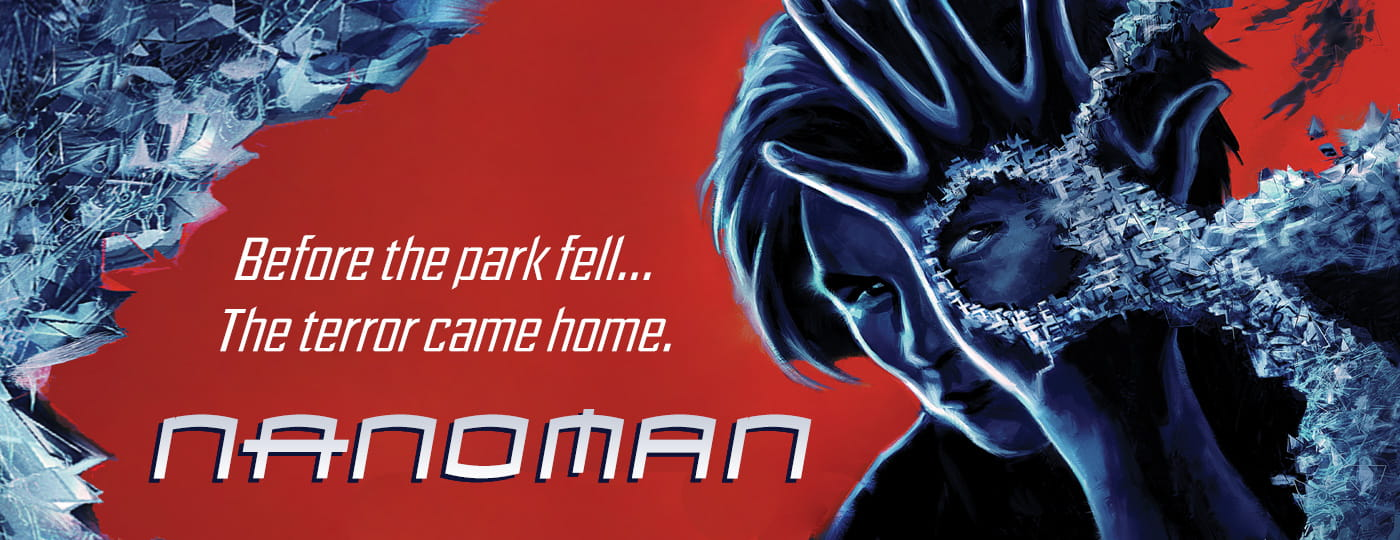
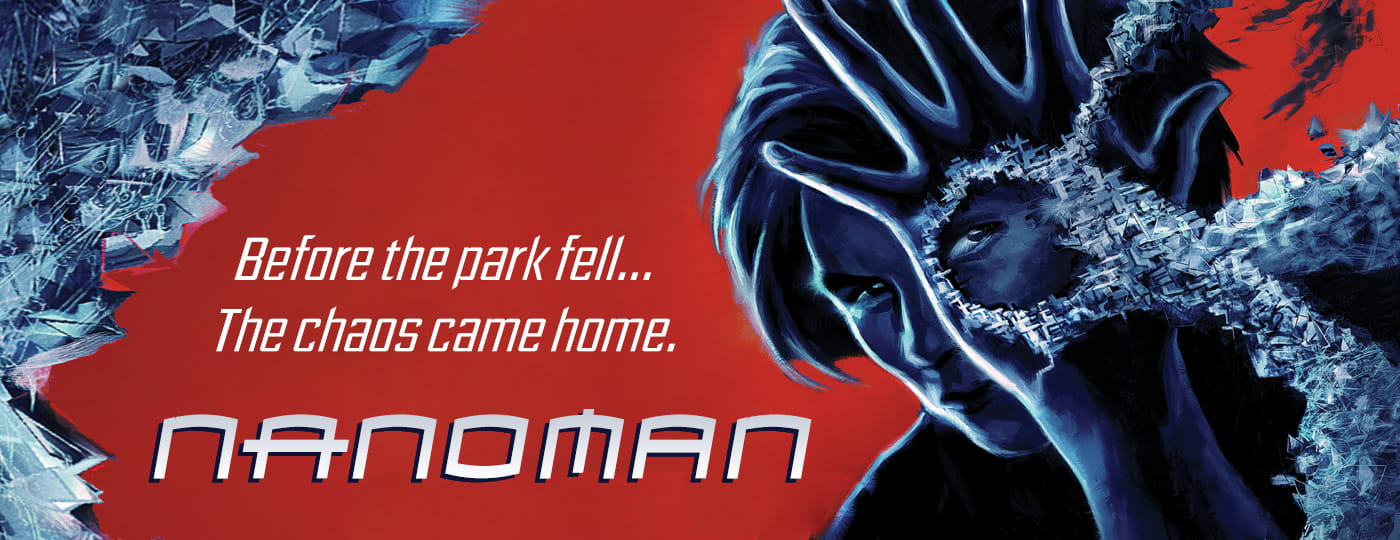
final blurb

Changed region(s): [[0.1536, 0.563, 0.4914, 0.6519]]

diff --git a/nanoman.html b/nanoman.html
@@ -4,7 +4,7 @@
     <title>Nanoman by Jack McGuigan - Gorilla House Books</title>
     <meta charset="utf-8">
     <meta name="viewport" content="width=device-width, initial-scale=1">
-    <meta name="description" content="BEFORE THE PARK FELL, THE TERROR CAME HOME. Thirteen-year-old Mike Murray has a secret: his whole body is made of shape-shifting pixels. Convinced he's the lost son of visionary director Frank Nano, Mike rallies his friends to enter a filmmaking contest, using his powers to create special effects for their guerrilla superhero blockbuster." />
+    <meta name="description" content="BEFORE THE PARK FELL, THE CHAOS CAME HOME. Thirteen-year-old Mike Murray has a secret: his whole body is made of shape-shifting pixels. Convinced he's the lost son of visionary director Frank Nano, Mike rallies his friends to enter a filmmaking contest, using his powers to create special effects for their guerrilla superhero blockbuster." />
     <meta itemprop="name" content="Nanoman by Jack McGuigan"/>
 	<meta itemprop="url" content="https://gorillahousebooks.com/nanoman.html"/>
 	<meta itemprop="thumbnailUrl" content="https://gorillahousebooks.com/images/favicon.png"/>
@@ -14,7 +14,7 @@
     <meta property="og:locale" content="en_US" />
     <meta property="og:type" content="website" />
     <meta property="og:title" content="Nanoman by Jack McGuigan - Gorilla House Books" />
-    <meta property="og:description" content="BEFORE THE PARK FELL, THE TERROR CAME HOME. Thirteen-year-old Mike Murray has a secret: his whole body is made of shape-shifting pixels. Convinced he's the lost son of visionary director Frank Nano, Mike rallies his friends to enter a filmmaking contest, using his powers to create special effects for their guerrilla superhero blockbuster." />
+    <meta property="og:description" content="BEFORE THE PARK FELL, THE CHAOS CAME HOME. Thirteen-year-old Mike Murray has a secret: his whole body is made of shape-shifting pixels. Convinced he's the lost son of visionary director Frank Nano, Mike rallies his friends to enter a filmmaking contest, using his powers to create special effects for their guerrilla superhero blockbuster." />
     <meta property="og:url" content="https://gorillahousebooks.com/nanoman.html" />
     <meta property="og:site_name" content="Gorilla House" />
     <meta property="og:image" content="https://gorillahousebooks.com/images/twittercard2023.jpg" />
@@ -46,7 +46,7 @@
 			"name": "Jack McGuigan",
 			"url": "https://gorillahousebooks.com/jack-mcguigan.html"
 		},
-		"description": "BEFORE THE PARK FELL, THE TERROR CAME HOME. Thirteen-year-old Mike Murray has a secret: his whole body is made of shape-shifting pixels. Convinced he's the lost son of visionary director Frank Nano, Mike rallies his friends to enter a filmmaking contest, using his powers to create special effects for their guerrilla superhero blockbuster. But production stalls when Sal Destro, a vengeful rival from Frank's past, crashes the set. Armed with a horde of mechanical apes, Sal turns their suburban shoot into a war zone, hell-bent on extracting the living technology from Mike's DNA. As the line between movies and reality blurs, Mike must master his glitching form to defeat Sal and finish his film. Will he survive long enough to claim his legacy? Or will his life end up on the cutting room floor? Dream extreme, nanofans—and prepare yourself for the ultimate spin.",
+		"description": "BEFORE THE PARK FELL, THE CHAOS CAME HOME. Thirteen-year-old Mike Murray has a secret: his whole body is made of shape-shifting pixels. Convinced he's the lost son of visionary director Frank Nano, Mike rallies his friends to enter a filmmaking contest, using his powers to create special effects for their guerrilla superhero blockbuster. But production stalls when Sal Destro, a vengeful rival from Frank's past, crashes the set. Armed with a horde of mechanical apes, Sal turns their suburban shoot into a war zone, hell-bent on extracting the living technology from Mike's DNA. As the line between movies and reality blurs, Mike must master his glitching form to defeat Sal and finish his film. Will he survive long enough to claim his legacy? Or will his life end up on the cutting room floor? Dream extreme, nanofans—and prepare yourself for the ultimate spin.",
 		"image": "https://gorillahousebooks.com/images/nanoland-lg.webp",
 		"publisher": {
 			"@type": "Organization",
@@ -116,9 +116,9 @@
 			</div>
 		</div>
 		<div class="col-12 col-md-7 float-right pt-3">
-			<p><span class="display-7">Before the park fell, the terror came home.</span></p>
+			<p><span class="display-7">Before the park fell, the chaos came home.</span></p>
 			<p>Thirteen-year-old Mike Murray has a secret: his whole body is made of shape-shifting pixels. Convinced he's the lost son of visionary director Frank Nano, Mike rallies his friends to enter a filmmaking contest, using his powers to create special effects for their guerrilla superhero blockbuster.</p>
-			<p>But production stalls when Sal Destro, a vengeful rival from Frank's past, crashes the set. Armed with a horde of mechanical apes, Sal turns their suburban shoot into a war zone, hell-bent on extracting the living technology from Mike's DNA.</p>
+			<p>But production stalls when Sal Destro, a vengeful rival from Frank's past, crashes the set. Armed with a horde of mechanical apes, Sal turns their suburban shoot into a war zone, hell-bent on extracting the secrets of Mike's existence.</p>
 			<p>As the line between movies and reality blurs, Mike must master his glitching form to defeat Sal and finish his film. Will he survive long enough to claim his legacy? Or will his life end up on the cutting room floor?</p>
 			<p><em>Dream extreme, nanofans—and prepare yourself for the ultimate spin.</em></p>
 			<div class="authorbio"><a href="/jack-mcguigan.html"><strong>JACK McGUIGAN</strong></a> is also the writer of the <em>Dog Walker</em> novels and <em>Agents of Paradox</em>, a comic book. In his youth, he made movies under the pseudonym "John McGuigan" which can be found on the internet. He lives in Chicago with his family.
